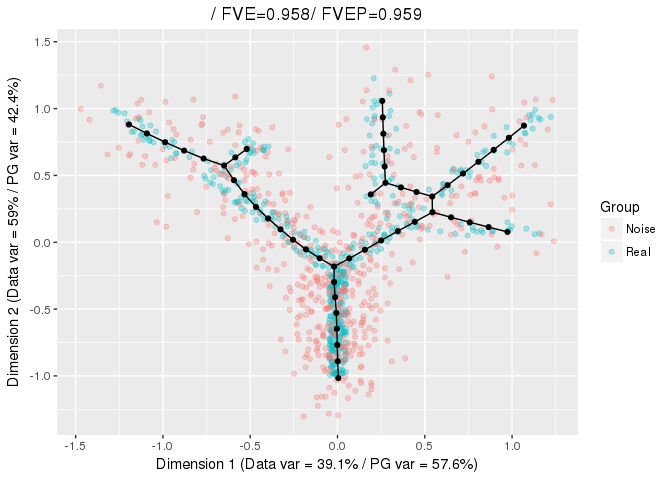
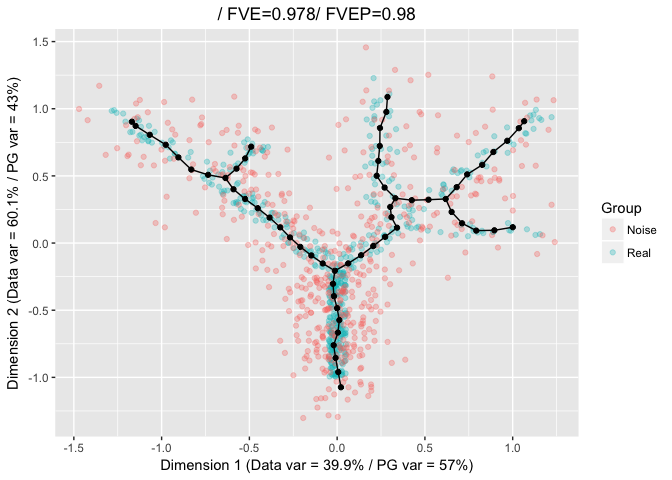
updated energy description

diff --git a/guides/energy.md b/guides/energy.md
@@ -1,19 +1,30 @@
--   [The alpha and beta parameters](#the-alpha-and-beta-parameters)
+-   [The alpha parameter](#the-alpha-parameter)
+-   [Excessinve branching due to
+    noise](#excessinve-branching-due-to-noise)
 
-The alpha and beta parameters
-=============================
+The alpha parameter
+===================
 
 Under certain circumstances, it may be necessary to tune the form of the
-elastic energy to obtain a better results. This may be particualrly true
-when the principal graph is introducing an excessive number of branches
-when the tree grammar is being used.
+elastic energy to obtain a better results. This is the case, for
+example, when an excessive number of branches is introduced by the tree
+grammar.
 
 To tune the elastic energy, it is necessary to set
-`FinalEnergy = "Penalized"` and specify values for the `alpha` and/or
-`beta` parameters. These parameters can be used to give more weight to
-the components of the energy associted with the lenght of the edges and
-the the stars, hence penalizing graphs that are longer or richer in
-branching points.
+`FinalEnergy = "Penalized"` and specify values for the `alpha`
+parameter. This parameter can be used to give more weight to the
+components of the energy associted with the lenght of the edges, hence
+penalizing graphs that are longer. Increasing alpha will penalize stars
+with a larger number of edges, and will preferentially introduce
+3-stars.
+
+Excessinve branching due to noise
+=================================
+
+To exemplify the effect of `alpha`, we will increase the level of noise
+around the &st and 2nd dimension of the tree example dataset. This will
+generate *spurious clusters of points* that are likely to be identified
+as branches.
 
     library(ElPiGraph.R)
     set.seed(42)
@@ -21,88 +32,95 @@ branching points.
     nExp <- 1
 
     NewPoints <- lapply(1:nExp, function(x){
-      tree_data + rnorm(n = length(tree_data), sd = .15)
+      tree_data[,1:2] + rnorm(n = length(tree_data[,1:2]), sd = .15)
     })
 
     NewPoints <- do.call(rbind, NewPoints)
 
-    NoisyTree <- rbind(tree_data, NewPoints)
+    NoisyTree <- rbind(tree_data[,1:2], NewPoints)
     NoisyTree_Cat <- c(rep("Real", nrow(tree_data)), rep("Noise", nrow(NewPoints)))
 
-    TreeEPG <- computeElasticPrincipalTree(X = NoisyTree, NumNodes = 50,
-                                           drawAccuracyComplexity = FALSE, drawEnergy = FALSE, drawPCAView = FALSE,
+    TreeEPG <- computeElasticPrincipalTree(X = NoisyTree, NumNodes = 60,
+                                           Lambda = .01, Mu = .01,
+                                           drawAccuracyComplexity = FALSE,
+                                           drawEnergy = FALSE,
+                                           drawPCAView = FALSE,
                                            n.cores = 1)
 
     ## [1] "Creating a chain in the 1st PC with 2 nodes"
     ## [1] "Constructing tree 1 of 1 / Subset 1 of 1"
     ## [1] "Performing PCA on the data"
     ## [1] "Using standard PCA"
-    ## [1] "3 dimensions are being used"
+    ## [1] "2 dimensions are being used"
     ## [1] "100% of the original variance has been retained"
-    ## [1] "Computing EPG with 50 nodes on 984 points and 3 dimensions"
+    ## [1] "Computing EPG with 60 nodes on 984 points and 2 dimensions"
     ## [1] "Using a single core"
-    ## Nodes = 2 3 4 5 6 7 8 9 10 11 12 13 14 15 16 17 18 19 20 21 22 23 24 25 26 27 28 29 30 31 32 33 34 35 36 37 38 39 40 41 42 43 44 45 46 47 48 49 
+    ## Nodes = 2 3 4 5 6 7 8 9 10 11 12 13 14 15 16 17 18 19 20 21 22 23 24 25 26 27 28 29 30 31 32 33 34 35 36 37 38 39 40 41 42 43 44 45 46 47 48 49 50 51 52 53 54 55 56 57 58 59 
     ## BARCODE  ENERGY  NNODES  NEDGES  NRIBS   NSTARS  NRAYS   NRAYS2  MSE MSEP    FVE FVEP    UE  UR  URN URN2    URSD
-    ## 2|5||50  0.03004 50  49  32  5   0   0   0.02217 0.02114 0.9616  0.9633  0.007692    0.0001747   0.008737    0.4369  0
-    ## 18.752 sec elapsed
+    ## 1|7||60  0.0178  60  59  41  7   0   0   0.01075 0.01005 0.981   0.9822  0.006854    0.000189    0.01134 0.6805  0
+    ## 19.149 sec elapsed
 
     PlotPG(X = NoisyTree, TargetPG = TreeEPG[[1]], GroupsLab = NoisyTree_Cat,
-           Do_PCA = FALSE, DimToPlot = 1:2)
+           Do_PCA = FALSE)
 
     ## [[1]]
 
 ![](energy_files/figure-markdown_strict/unnamed-chunk-2-1.png)
 
-    TreeEPG <- computeElasticPrincipalTree(X = NoisyTree, NumNodes = 50,
-                                           drawAccuracyComplexity = FALSE, drawEnergy = FALSE, drawPCAView = FALSE,
+    TreeEPG <- computeElasticPrincipalTree(X = NoisyTree, NumNodes = 60,
+                                           Lambda = .01, Mu = .01,
+                                           drawAccuracyComplexity = FALSE,
+                                           drawEnergy = FALSE, drawPCAView = FALSE,
                                            n.cores = 1,
-                                           FinalEnergy = "Penalized", alpha = 0.02, beta = 0)
+                                           FinalEnergy = "Penalized",
+                                           alpha = 0.005)
 
     ## [1] "Creating a chain in the 1st PC with 2 nodes"
     ## [1] "Constructing tree 1 of 1 / Subset 1 of 1"
     ## [1] "Performing PCA on the data"
     ## [1] "Using standard PCA"
-    ## [1] "3 dimensions are being used"
+    ## [1] "2 dimensions are being used"
     ## [1] "100% of the original variance has been retained"
-    ## [1] "Computing EPG with 50 nodes on 984 points and 3 dimensions"
+    ## [1] "Computing EPG with 60 nodes on 984 points and 2 dimensions"
     ## [1] "Using a single core"
-    ## Nodes = 2 3 4 5 6 7 8 9 10 11 12 13 14 15 16 17 18 19 20 21 22 23 24 25 26 27 28 29 30 31 32 33 34 35 36 37 38 39 40 41 42 43 44 45 46 47 48 49 
+    ## Nodes = 2 3 4 5 6 7 8 9 10 11 12 13 14 15 16 17 18 19 20 21 22 23 24 25 26 27 28 29 30 31 32 33 34 35 36 37 38 39 40 41 42 43 44 45 46 47 48 49 50 51 52 53 54 55 56 57 58 59 
     ## BARCODE  ENERGY  NNODES  NEDGES  NRIBS   NSTARS  NRAYS   NRAYS2  MSE MSEP    FVE FVEP    UE  UR  URN URN2    URSD
-    ## 3||50    0.03276 50  49  42  3   0   0   0.02615 0.02527 0.9547  0.9562  0.005797    0.0008153   0.04077 2.038   0
-    ## 19.154 sec elapsed
+    ## 5||60    0.01834 60  59  48  5   0   0   0.0122  0.01153 0.9784  0.9796  0.0058  0.00034 0.0204  1.224   0
+    ## 20.602 sec elapsed
 
     PlotPG(X = NoisyTree, TargetPG = TreeEPG[[1]], GroupsLab = NoisyTree_Cat,
-           Do_PCA = FALSE, DimToPlot = 1:2)
+           Do_PCA = FALSE)
 
     ## [[1]]
 
 ![](energy_files/figure-markdown_strict/unnamed-chunk-3-1.png)
 
-When using elastic energy controlled graph embeddment (`Mode = 2`), it
-is necessary to set `MinimizingEnergy = "Penalized"` to allow alpha and
-beto to influence the embeddment of the graph as well.
+Note that when using elastic energy controlled graph embeddment
+(`Mode = 2`) the standard energy funtion will be used.
 
-    TreeEPG <- computeElasticPrincipalTree(X = NoisyTree, NumNodes = 50,
-                                           drawAccuracyComplexity = FALSE, drawEnergy = FALSE, drawPCAView = FALSE,
+    TreeEPG <- computeElasticPrincipalTree(X = NoisyTree, NumNodes = 60,
+                                           Lambda = .01, Mu = .01,
+                                           drawAccuracyComplexity = FALSE,
+                                           drawEnergy = FALSE, drawPCAView = FALSE,
                                            n.cores = 1, Mode = 2,
-                                           MinimizingEnergy = "Penalized", FinalEnergy = "Penalized",
-                                           alpha = 0.01, beta = 0)
+                                           FinalEnergy = "Penalized",
+                                           alpha = 0.005)
 
     ## [1] "Creating a chain in the 1st PC with 2 nodes"
     ## [1] "Constructing tree 1 of 1 / Subset 1 of 1"
     ## [1] "Performing PCA on the data"
     ## [1] "Using standard PCA"
-    ## [1] "3 dimensions are being used"
+    ## [1] "2 dimensions are being used"
     ## [1] "100% of the original variance has been retained"
-    ## [1] "Computing EPG with 50 nodes on 984 points and 3 dimensions"
+    ## [1] "Computing EPG with 60 nodes on 984 points and 2 dimensions"
     ## [1] "Using a single core"
-    ## Nodes = 2 3 4 5 6 7 8 9 10 11 12 13 14 15 16 17 18 19 20 21 22 23 24 25 26 27 28 29 30 31 32 33 34 35 36 37 38 39 40 41 42 43 44 45 46 47 48 49 
+    ## Nodes = 2 3 4 5 6 7 8 9 10 11 12 13 14 15 16 17 18 19 20 21 22 23 24 25 26 27 28 29 30 31 32 33 34 35 36 37 38 39 40 41 42 43 44 45 46 47 48 49 50 51 52 53 54 55 56 57 58 59 
     ## BARCODE  ENERGY  NNODES  NEDGES  NRIBS   NSTARS  NRAYS   NRAYS2  MSE MSEP    FVE FVEP    UE  UR  URN URN2    URSD
-    ## 5||50    0.03121 50  49  38  5   0   0   0.0244  0.02343 0.9577  0.9594  0.006618    0.0001977   0.009884    0.4942  0
-    ## 20.079 sec elapsed
+    ## 4||60    0.01834 60  59  50  4   0   0   0.01222 0.0116  0.9784  0.9795  0.005891    0.0002311   0.01387 0.8319  0
+    ## 19.886 sec elapsed
 
     PlotPG(X = NoisyTree, TargetPG = TreeEPG[[1]], GroupsLab = NoisyTree_Cat,
-           Do_PCA = FALSE, DimToPlot = 1:2)
+           Do_PCA = FALSE)
 
     ## [[1]]
 
